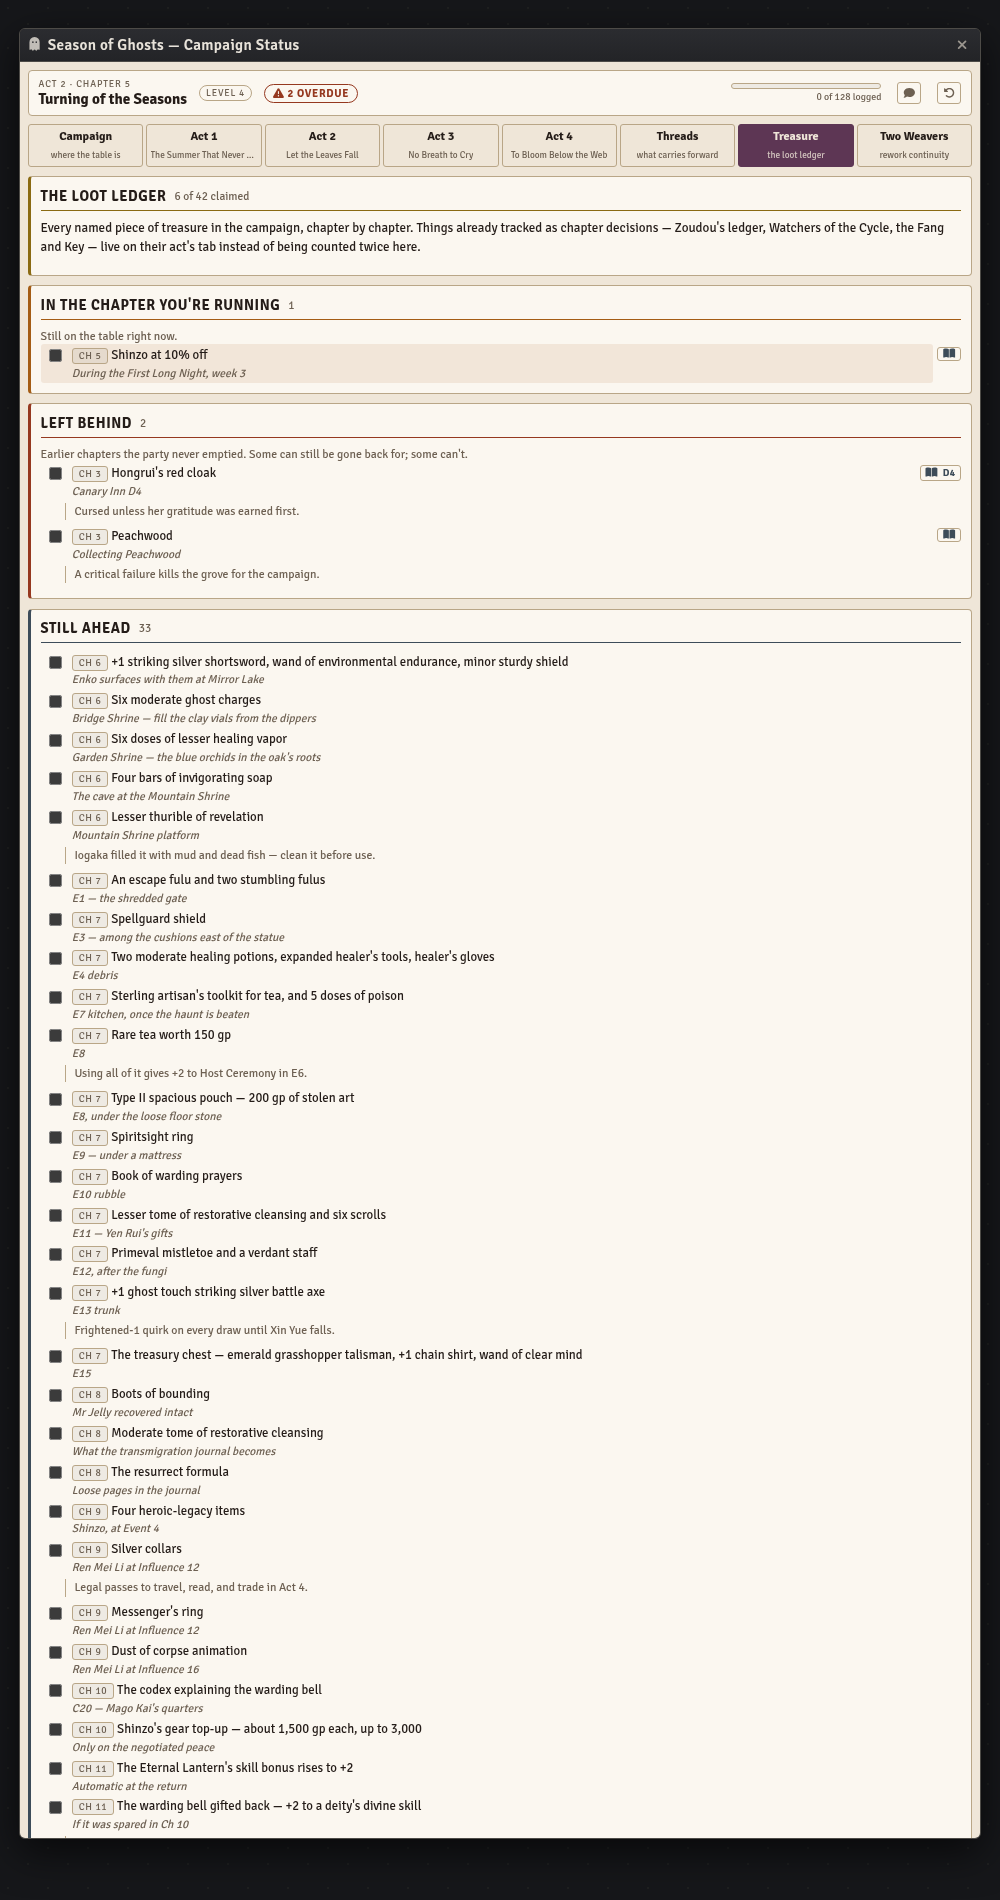
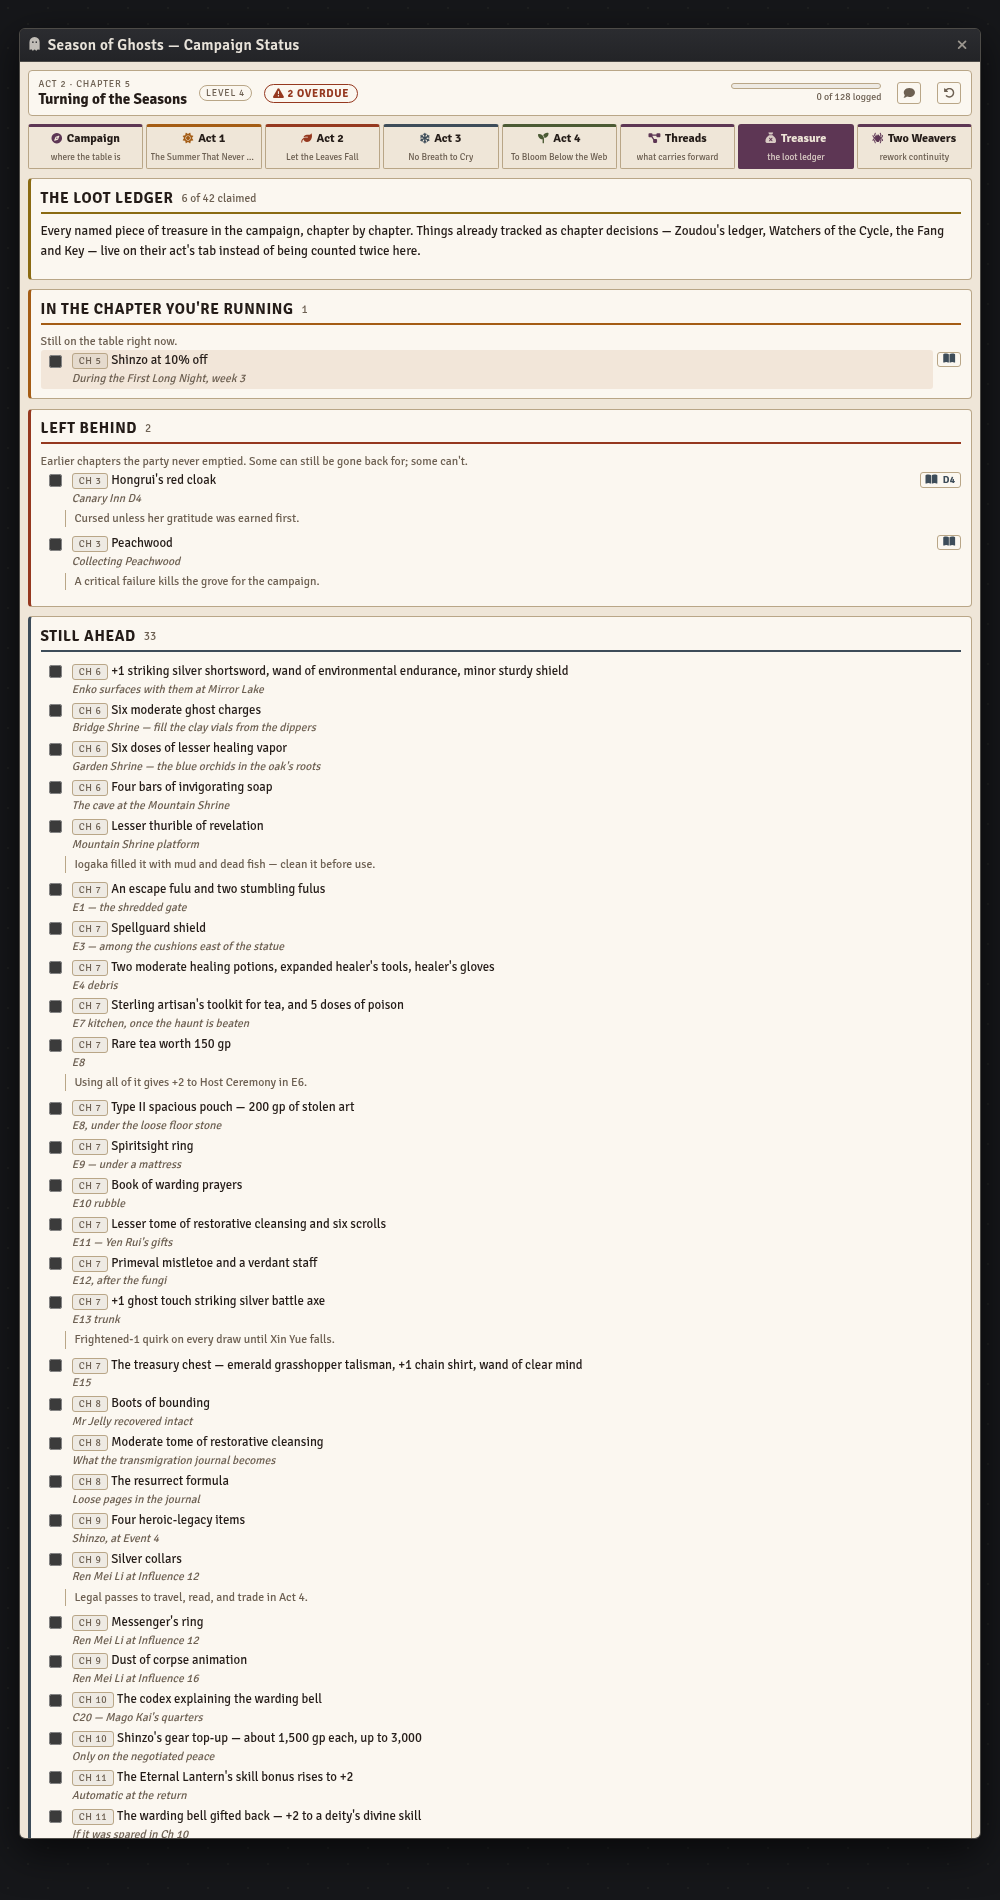
Campaign tracker: make the headings carry the colour
The blocks had the right shape but not enough contrast — a tinted label on
parchment reads as decoration, not as a heading.

Each block head is now a filled bar in its accent, bled to the well's
edges, with its count as a pill on it. The chapter's own decisions take
ink rather than the act's tone, because the act tone is a different colour
in each act and would have collided with audio in winter and with the
procedure block in spring; ink also puts the checklist above the reference
blocks, which is the right order.

The tab strip carries the same colours. An act tab wears its season — the
tone its chapter cards already use — and the four views are plum, told
apart by an icon rather than a hue.

That left the two levels of heading competing, so a panel title is now
larger ink over a thick rule in its own tone. Outer reads first, inner
sorts what sits under it. Side by side, panels and blocks size to their
contents instead of stretching to match a taller neighbour, which had been
leaving a screen of dead space under the party list.

Changed region(s): [[0.031, 0.0621, 0.961, 0.9626], [0.93, 0.1553, 0.961, 0.3105]]

diff --git a/macros/season-of-ghosts/campaign-status-tracker.js b/macros/season-of-ghosts/campaign-status-tracker.js
@@ -1304,23 +1304,27 @@ class CSApp extends BaseApp {
   /* -------------------------------------------------------------- markup */
   markup() {
     const t = this.t, s = t.s, ro = !t.editable;
+    /* An act tab carries its season's colour, which is the same colour that
+       act's chapter cards and its checklist heads use — so the strip says
+       where you are before you read it. The four views are plum, and told
+       apart by their icon rather than by hue. */
     const tabs = [
-      { key: "campaign", label: "Campaign", sub: "where the table is" },
-      { key: "act1", label: "Act 1", sub: ACTS[1].name },
-      { key: "act2", label: "Act 2", sub: ACTS[2].name },
-      { key: "act3", label: "Act 3", sub: ACTS[3].name },
-      { key: "act4", label: "Act 4", sub: ACTS[4].name },
-      { key: "threads", label: "Threads", sub: "what carries forward" },
-      { key: "loot", label: "Treasure", sub: "the loot ledger" },
-      { key: "rework", label: "Two Weavers", sub: "rework continuity" }
+      { key: "campaign", label: "Campaign", sub: "where the table is", tone: "plum", icon: "fa-compass" },
+      { key: "act1", label: "Act 1", sub: ACTS[1].name, tone: ACTS[1].tone, icon: "fa-sun" },
+      { key: "act2", label: "Act 2", sub: ACTS[2].name, tone: ACTS[2].tone, icon: "fa-leaf" },
+      { key: "act3", label: "Act 3", sub: ACTS[3].name, tone: ACTS[3].tone, icon: "fa-snowflake" },
+      { key: "act4", label: "Act 4", sub: ACTS[4].name, tone: ACTS[4].tone, icon: "fa-seedling" },
+      { key: "threads", label: "Threads", sub: "what carries forward", tone: "plum", icon: "fa-diagram-project" },
+      { key: "loot", label: "Treasure", sub: "the loot ledger", tone: "plum", icon: "fa-sack-xmark" },
+      { key: "rework", label: "Two Weavers", sub: "rework continuity", tone: "plum", icon: "fa-spider" }
     ];
     const actTab = /^act[1-4]$/.test(s.tab) ? Number(s.tab.slice(3)) : null;
     return `${this.styles()}
       <div class="cst">
         ${this.header(ro)}
         <nav class="tabs">
-          ${tabs.map(x => `<button type="button" class="tab ${s.tab === x.key ? "on" : ""}" data-act="tab" data-k="${x.key}">
-            <b>${x.label}</b><small>${x.sub}</small></button>`).join("")}
+          ${tabs.map(x => `<button type="button" class="tab ${s.tab === x.key ? "on" : ""}" style="--tt:var(--${x.tone})" data-act="tab" data-k="${x.key}">
+            <b><i class="fa-solid ${x.icon}"></i> ${x.label}</b><small>${x.sub}</small></button>`).join("")}
         </nav>
         ${s.tab === "campaign" ? this.campaignTab(ro) : ""}
         ${actTab ? this.actTab(actTab, ro) : ""}
@@ -1841,8 +1845,11 @@ class CSApp extends BaseApp {
       .cst button:hover:not(:disabled) { background:var(--hover); }
       .cst button:disabled { opacity:.45; cursor:not-allowed; }
       .cst input[type="checkbox"] { accent-color:var(--ember); margin-top:.15rem; flex:none; }
-      .cst h3 { color:var(--ink); font-size:.9rem; margin:0 0 .5rem; letter-spacing:.04em; text-transform:uppercase;
-                display:flex; align-items:center; gap:.5rem; border-bottom:1px solid var(--line);
+      /* Two levels, and they must not compete: a panel is titled in large ink
+         over a thick rule in its own tone, a block inside it is titled in a
+         small filled bar. Outer reads first, inner sorts what's under it. */
+      .cst h3 { color:var(--ink); font-size:.95rem; margin:0 0 .55rem; letter-spacing:.04em; text-transform:uppercase;
+                display:flex; align-items:center; gap:.5rem; border-bottom:2px solid var(--tone, var(--line));
                 padding-bottom:.3rem; flex-wrap:wrap; }
       .cst h3 small { font-weight:400; text-transform:none; letter-spacing:0; color:var(--muted); font-size:.72rem; }
       .cst h1, .cst h2, .cst h4, .cst legend { color:var(--ink); }
@@ -1887,11 +1894,13 @@ class CSApp extends BaseApp {
 
       .cst .tabs { display:flex; gap:3px; margin-bottom:.6rem; }
       .cst .tab { flex:1; padding:.3rem .2rem; font-size:.76rem; display:flex; flex-direction:column; line-height:1.2;
-                  overflow:hidden; }
+                  overflow:hidden; border-top:3px solid var(--tt, var(--line)); border-radius:3px 3px 2px 2px; }
+      .cst .tab b { display:flex; align-items:center; justify-content:center; gap:.3rem; }
+      .cst .tab b i { font-size:.66rem; color:var(--tt, var(--muted)); }
       .cst .tab small { font-size:.58rem; color:var(--muted); font-weight:400; white-space:nowrap;
                         text-overflow:ellipsis; overflow:hidden; max-width:100%; }
-      .cst .tab.on { background:var(--plum); border-color:var(--plum); color:var(--paper); }
-      .cst .tab.on small { color:var(--paper); opacity:.8; }
+      .cst .tab.on { background:var(--tt); border-color:var(--tt); color:var(--paper); }
+      .cst .tab.on b i, .cst .tab.on small { color:var(--paper); opacity:.85; }
 
       .cst .cols { display:grid; grid-template-columns:1fr 1fr; gap:.5rem; }
       .cst .rollup { display:flex; gap:.5rem; flex-wrap:wrap; }
@@ -1961,10 +1970,14 @@ class CSApp extends BaseApp {
          coloured spine and a labelled head — so the eye can sort decisions
          from treasure from audio without reading any of it. Each block sets
          its own accent in --sub, which the head and spine both read. */
-      .cst .sub { --sub:var(--line); background:var(--stripe); border:1px solid var(--line);
-                  border-left:3px solid var(--sub); border-radius:4px;
+      .cst .sub { --sub:var(--line); background:var(--stripe); border:1px solid var(--sub);
+                  border-radius:4px; overflow:hidden;
                   padding:.4rem .5rem .45rem; margin-top:.5rem; }
-      .cst .sub.decisions { --sub:var(--tone, var(--ember)); }
+      /* Ink rather than the act's tone: the act tone is a different colour in
+         each act, so it would collide with audio in winter and with the
+         procedure block in spring. Ink also puts the chapter's own checklist
+         above the reference blocks in the hierarchy, which is right. */
+      .cst .sub.decisions { --sub:var(--ink); }
       .cst .sub.loot   { --sub:var(--gold); }
       .cst .sub.proc   { --sub:var(--moss); }
       .cst .sub.ours   { --sub:var(--plum); }
@@ -1972,20 +1985,25 @@ class CSApp extends BaseApp {
       .cst .sub.audio  { --sub:var(--slate); }
       .cst .sub.cues   { --sub:var(--rust); }
 
-      .cst .subhead { font-size:.64rem; text-transform:uppercase; letter-spacing:.08em; color:var(--sub, var(--muted));
-                      font-weight:700; display:flex; align-items:center; gap:.35rem;
-                      margin:0 0 .35rem; padding-bottom:.25rem; border-bottom:1px solid var(--line); }
-      .cst .subhead i { color:var(--sub, var(--muted)); font-size:.72rem; }
-      .cst .subhead span { margin-left:auto; font-weight:400; color:var(--muted); letter-spacing:.04em;
-                           border:1px solid var(--line); border-radius:8px; padding:0 6px; background:var(--card); }
+      /* The head is a filled bar in the block's accent, bled to the well's
+         edges. On parchment a tinted label reads as decoration; a solid one
+         reads as a heading, which is the whole point of it. */
+      .cst .subhead { font-size:.66rem; text-transform:uppercase; letter-spacing:.1em;
+                      font-weight:700; display:flex; align-items:center; gap:.4rem;
+                      background:var(--sub, var(--muted)); color:var(--paper);
+                      margin:-.4rem -.5rem .45rem; padding:.28rem .5rem; border-radius:2px 2px 0 0; }
+      .cst .subhead i { color:var(--paper); opacity:.8; font-size:.72rem; }
+      .cst .subhead span { margin-left:auto; font-weight:600; color:var(--paper); letter-spacing:.06em;
+                           border-radius:8px; padding:0 7px; background:rgba(0,0,0,.22); }
       .cst .sub.loot .check.on .lbl { text-decoration:line-through; text-decoration-color:var(--line); }
       .cst .itemnote { font-size:.74rem; line-height:1.45; color:var(--muted); margin:.1rem 0 .35rem 1.55rem;
                        padding-left:.5rem; border-left:1px solid var(--line); }
 
-      /* On the campaign tab the blocks sit in a grid rather than stacked. They
-         start level with each other and size to their contents, rather than
-         stretching a short block to match a tall neighbour. */
-      .cst .cols > .sub { margin-top:0; align-self:start; }
+      /* Side by side, things size to their contents and start level with each
+         other rather than a short one stretching to match a tall neighbour. */
+      .cst .cols > * { align-self:start; }
+      .cst .cols > .sub { margin-top:0; }
+      .cst .cols > .panel { margin-bottom:0; }
 
       .cst .macros { display:flex; flex-direction:column; gap:1px; }
       .cst .mrow { display:flex; gap:.45rem; align-items:baseline; font-size:.79rem; padding:.12rem 0; }
@@ -2002,7 +2020,7 @@ class CSApp extends BaseApp {
       .cst .proc { --sub:var(--moss); }
       .cst .proc + .proc { border-top:1px dashed var(--line); margin-top:.5rem; padding-top:.45rem; }
       .cst .proc .subhead span { margin-left:.35rem; text-transform:none; letter-spacing:0; font-style:italic;
-                                 border:0; padding:0; background:none; }
+                                 font-weight:400; padding:0; background:none; opacity:.85; }
       .cst .bullets { margin:.2rem 0 .4rem; padding-left:1.1rem; font-size:.79rem; line-height:1.5; }
       .cst .bullets li { margin-bottom:.15rem; }
 

diff --git a/macros/season-of-ghosts/README.md b/macros/season-of-ghosts/README.md
@@ -154,9 +154,12 @@ produced them.
 - The Two Weavers continuity checklist, the milestone-level table, and per-PC arcs
 - A spoiler-free chat recap: act, chapter, level, and the chapters behind them
 
-Everything inside a chapter card is the same shape — a tinted well with a coloured spine and
-a labelled head carrying its own count — so decisions, treasure, consoles, module macros,
-audio, and cues can be told apart without reading any of them.
+Two levels of heading, and they don't compete. A panel is titled in large ink over a thick
+rule in its own tone; a block inside it wears a small filled bar in its accent — ink for the
+chapter's decisions, gold for treasure, moss for a running procedure, plum for this
+collection's consoles, ember for module macros, slate for audio, rust for scenes and cues.
+The tab strip uses the same colours: an act tab carries its season, and the four views are
+plum, told apart by their icon.
 
 Generic beds that appear in every act — Indoors, Woods, Willowshore, the Mist and Fog set, the
 River loop — sit on the campaign tab under **Always to hand** rather than repeating against all

diff --git a/CHANGELOG.md b/CHANGELOG.md
@@ -48,9 +48,12 @@
 - Campaign tracker: seven module macros and one audio cue moved off `placed by guess` and
   `act only` onto the chapters the adventure's scene-notes blocks actually link them from
 - Campaign tracker: each block inside a chapter card — decisions, treasure, procedures,
-  consoles, module macros, audio, cues — is now a tinted well with its own accent colour and
-  a labelled head, rather than a dashed rule and a small grey caption. The chapter's own
-  checklist gained a head too, which is where its count moved to
+  consoles, module macros, audio, cues — is now a tinted well headed by a filled bar in its
+  own accent, rather than a dashed rule and a small grey caption. The chapter's own checklist
+  gained a head too, which is where its count moved to
+- Campaign tracker: the tab strip carries the same colours — an act tab wears its season, and
+  the four views are plum with an icon each — and panel titles sit over a rule in their tone,
+  so the two levels of heading don't compete
 
 ### Fixed
 - Scoped all CSS under root classes; unscoped selectors were bleeding into PF2e sheets
